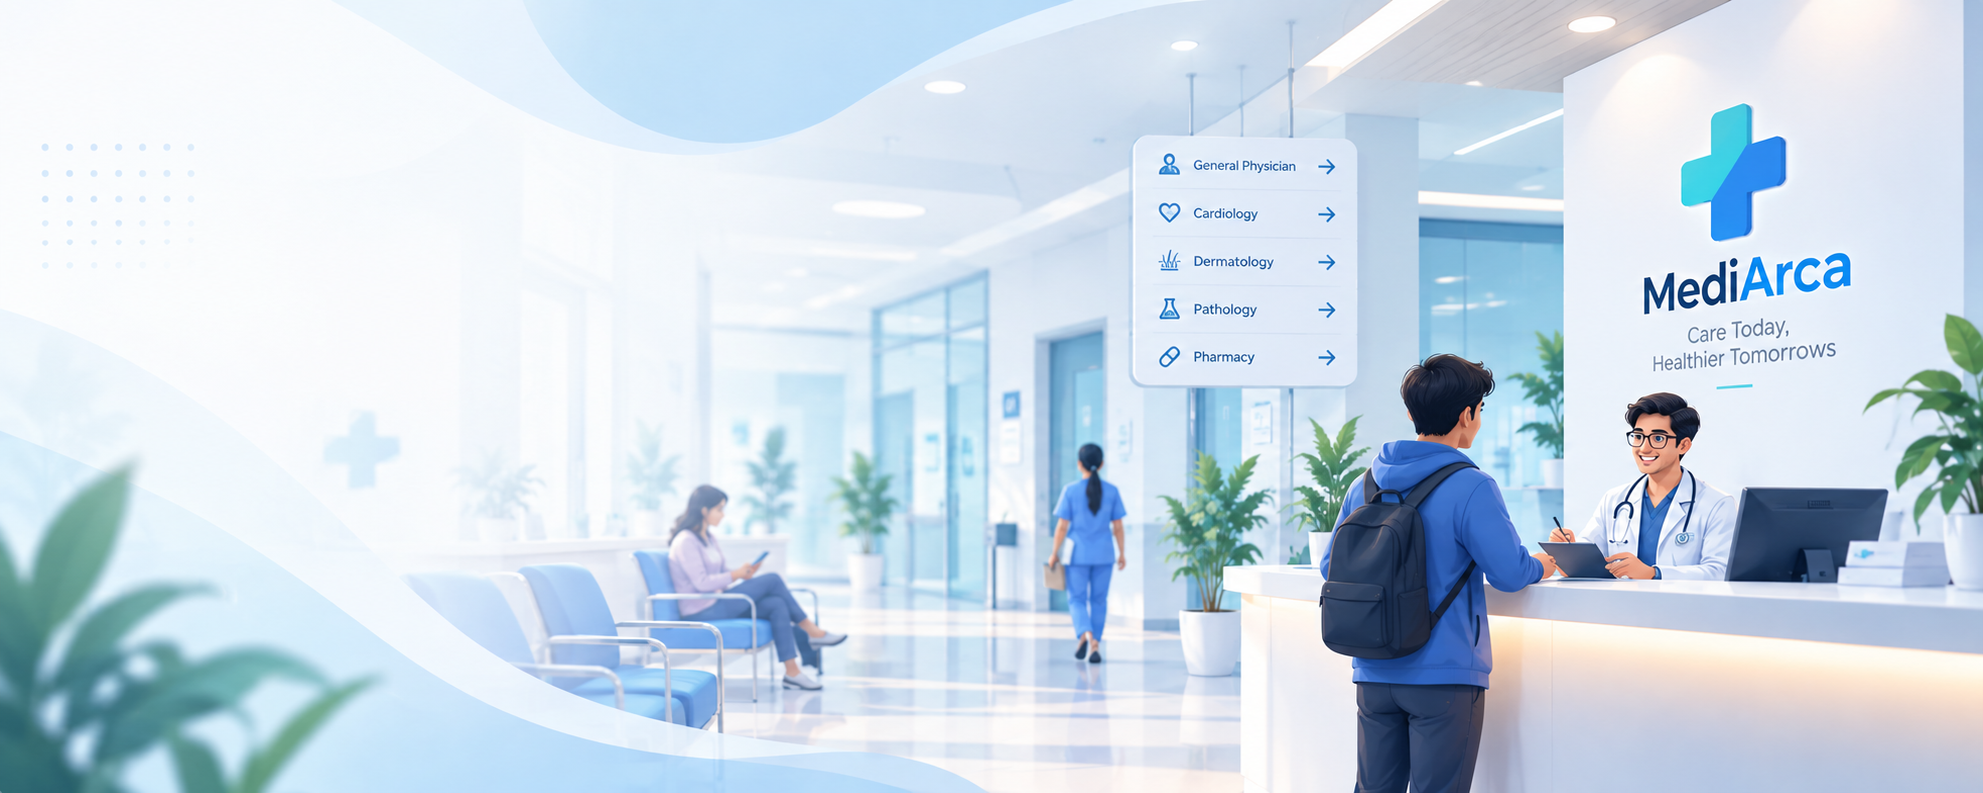
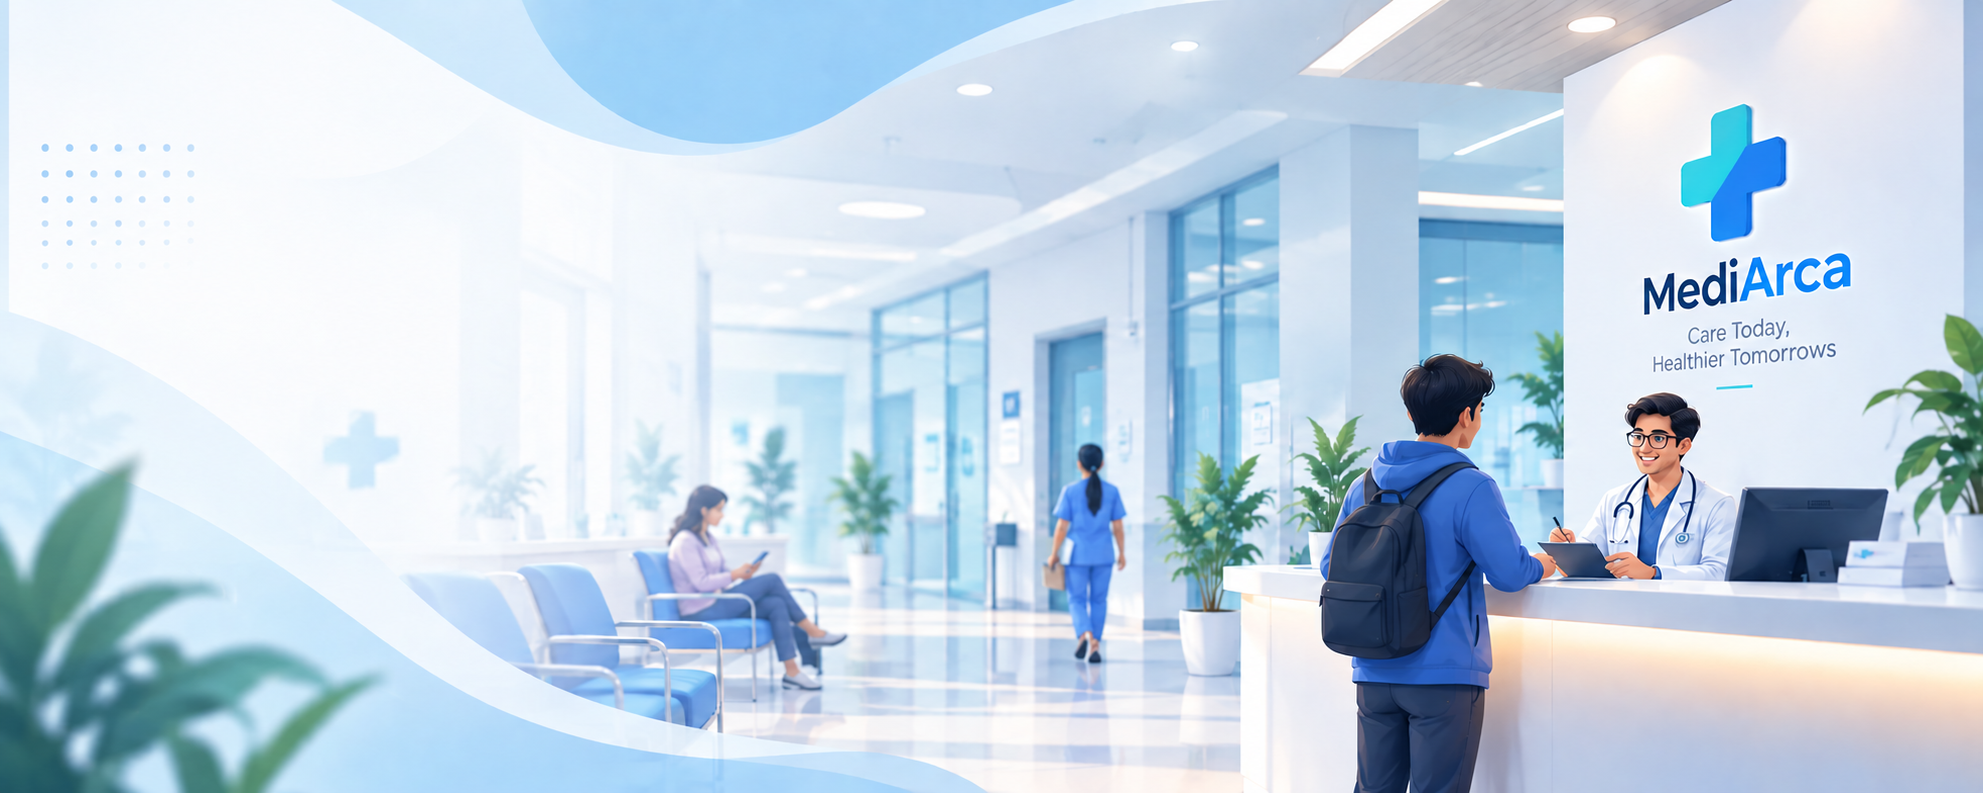
feat(hero): integrate latest clean modern MediArca hospital reception image

diff --git a/frontend/src/pages/Home.tsx b/frontend/src/pages/Home.tsx
@@ -210,12 +210,12 @@ export const Home: React.FC = () => {
     <div className="flex flex-col min-h-screen bg-[#f5f5f7]">
       {/* 1. Hero Section - Search-Driven Apple Aesthetic with Modern Hospital Campus Background */}
       <section className="relative overflow-hidden border-b border-[#e5e5ea] py-20 sm:py-28 md:py-32 lg:py-36 px-4 sm:px-6 min-h-[500px] sm:min-h-[560px] flex items-center justify-center">
-        {/* Modern Hospital Campus Background - 100% Crystal Clear & Vivid (Zero Fog / Zero Haze) */}
+        {/* Modern MediArca Hospital Reception Background - 100% Crystal Clear & Vivid */}
         <div className="absolute inset-0 pointer-events-none select-none overflow-hidden">
           <img
             src={healthcareHeroBg}
-            alt="Modern Hospital Campus Entrance"
-            className="w-full h-full object-cover object-[center_35%]"
+            alt="Modern MediArca Hospital Reception"
+            className="w-full h-full object-cover object-center"
           />
         </div>
 
